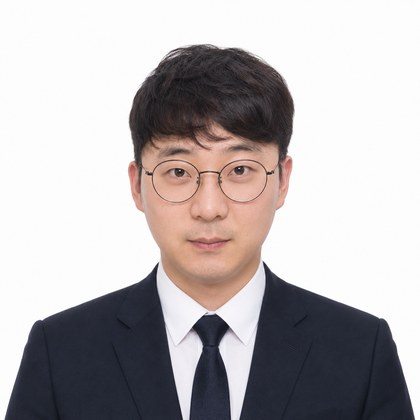
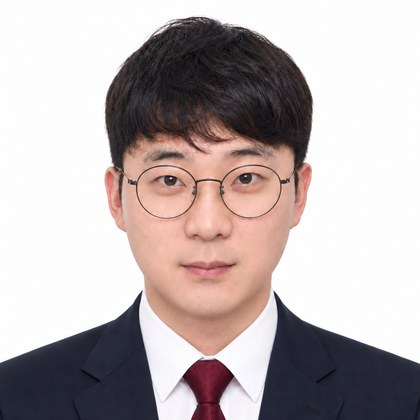
PI photo: switch to red-tie ID photo

diff --git a/index.html b/index.html
@@ -388,7 +388,7 @@
   © 2026 MatSOLVE, Korea Institute of Ceramic Engineering &amp; Technology<br>
 </footer>
 
-<script id="imgdata" type="application/json">{"logo": "assets/img/logo.png", "concept": "assets/img/concept.jpg", "scope": "assets/img/scope.jpg?v=20261005", "pillars": "assets/img/pillars.jpg", "qr": "assets/img/qr.jpg", "pi": "assets/img/pi.jpg", "m_bincy": "assets/img/m_bincy.jpg", "m_ganji": "assets/img/m_ganji.jpg", "m_prabha": "assets/img/m_prabha.jpg", "m_ksw": "assets/img/m_ksw.jpg", "m_kjb": "assets/img/m_kjb.jpg", "m_khn": "assets/img/m_khn.jpg", "m_cde": "assets/img/m_cde.jpg", "m_smt": "assets/img/m_smt.jpg", "m_shj": "assets/img/m_shj.jpg", "m_ldg": "assets/img/m_ldg.jpg", "m_lsh": "assets/img/m_lsh.jpg", "m_jsw": "assets/img/m_jsw.jpg", "sw_ansys": "assets/img/sw_ansys.png", "sw_fluent": "assets/img/sw_fluent.png", "sw_comsol": "assets/img/sw_comsol.png", "sw_digimat": "assets/img/sw_digimat.png", "sw_geodict": "assets/img/sw_geodict.png", "sw_hepigans": "assets/img/sw_hepigans.png", "sw_msstudio": "assets/img/sw_msstudio.png", "sw_piano": "assets/img/sw_piano.png", "sw_vasp": "assets/img/sw_vasp.png", "n_grad": "assets/img/n_grad.jpg", "n_cover": "assets/img/n_cover.jpg", "n_plat": "assets/img/n_plat.jpg?v=20260905", "n_award": "assets/img/n_award.jpg", "n_geo": "assets/img/n_geo.jpg", "n_qd": "assets/img/n_qd.jpg", "n_marine": "assets/img/n_marine.jpg", "n_hydro": "assets/img/pub/20.jpg", "n_amds": "assets/img/n_amds.jpg", "n_mico": "assets/img/n_mico.jpg", "n_halide": "assets/img/n_halide.jpg?v=20260905", "n_tribo": "assets/img/pub/13.jpg", "m_kgw": "assets/img/m_kgw.jpg", "m_gf": "assets/img/m_gf.jpg", "m_uk": "assets/img/m_uk.jpg"}</script>
+<script id="imgdata" type="application/json">{"logo": "assets/img/logo.png", "concept": "assets/img/concept.jpg", "scope": "assets/img/scope.jpg?v=20261005", "pillars": "assets/img/pillars.jpg", "qr": "assets/img/qr.jpg", "pi": "assets/img/pi.jpg?v=20261010", "m_bincy": "assets/img/m_bincy.jpg", "m_ganji": "assets/img/m_ganji.jpg", "m_prabha": "assets/img/m_prabha.jpg", "m_ksw": "assets/img/m_ksw.jpg", "m_kjb": "assets/img/m_kjb.jpg", "m_khn": "assets/img/m_khn.jpg", "m_cde": "assets/img/m_cde.jpg", "m_smt": "assets/img/m_smt.jpg", "m_shj": "assets/img/m_shj.jpg", "m_ldg": "assets/img/m_ldg.jpg", "m_lsh": "assets/img/m_lsh.jpg", "m_jsw": "assets/img/m_jsw.jpg", "sw_ansys": "assets/img/sw_ansys.png", "sw_fluent": "assets/img/sw_fluent.png", "sw_comsol": "assets/img/sw_comsol.png", "sw_digimat": "assets/img/sw_digimat.png", "sw_geodict": "assets/img/sw_geodict.png", "sw_hepigans": "assets/img/sw_hepigans.png", "sw_msstudio": "assets/img/sw_msstudio.png", "sw_piano": "assets/img/sw_piano.png", "sw_vasp": "assets/img/sw_vasp.png", "n_grad": "assets/img/n_grad.jpg", "n_cover": "assets/img/n_cover.jpg", "n_plat": "assets/img/n_plat.jpg?v=20260905", "n_award": "assets/img/n_award.jpg", "n_geo": "assets/img/n_geo.jpg", "n_qd": "assets/img/n_qd.jpg", "n_marine": "assets/img/n_marine.jpg", "n_hydro": "assets/img/pub/20.jpg", "n_amds": "assets/img/n_amds.jpg", "n_mico": "assets/img/n_mico.jpg", "n_halide": "assets/img/n_halide.jpg?v=20260905", "n_tribo": "assets/img/pub/13.jpg", "m_kgw": "assets/img/m_kgw.jpg", "m_gf": "assets/img/m_gf.jpg", "m_uk": "assets/img/m_uk.jpg"}</script>
 <script id="galdata" type="application/json">[{"id": "e2609b", "date": "2026.09.30–10.02", "title": "Korean Ceramic Society", "note": "추계학술대회", "cover": "assets/img/gallery/e2609b-cover.jpg", "shots": ["assets/img/gallery/e2609b-01.jpg", "assets/img/gallery/e2609b-02.jpg"]}, {"id": "e2609", "date": "2026.09.08", "title": "Welcome, Daeun!", "note": "최다은 연구원 환영회", "cover": "assets/img/gallery/e2609-cover.jpg", "shots": ["assets/img/gallery/e2609-01.jpg"]}, {"id": "e2606", "date": "2026.06.21–24", "title": "CIMTEC 2026 · 10th Forum on New Materials", "note": "Perugia, Italy", "cover": "assets/img/gallery/e2606-cover.jpg", "shots": ["assets/img/gallery/e2606-01.jpg", "assets/img/gallery/e2606-02.jpg", "assets/img/gallery/e2606-04.jpg", "assets/img/gallery/e2606-03.jpg"]}, {"id": "e2605b", "date": "2026.05.15", "title": "Teachers' Day", "note": "스승의 날", "cover": "assets/img/gallery/e2605b-cover.jpg", "shots": ["assets/img/gallery/e2605b-02.jpg"]}, {"id": "e2605a", "date": "2026.05.08", "title": "Homecoming", "note": "졸업생 방문", "cover": "assets/img/gallery/e2605a-cover.jpg", "shots": ["assets/img/gallery/e2605a-14.jpg"]}, {"id": "e2604", "date": "2026.04.08–10", "title": "Korean Ceramic Society", "note": "춘계학술대회", "cover": "assets/img/gallery/e2604-cover.jpg", "shots": ["assets/img/gallery/e2604-08.jpg", "assets/img/gallery/e2604-01.jpg", "assets/img/gallery/e2604-06.jpg"]}, {"id": "e2601", "date": "2026.01.09", "title": "Birthday", "note": "", "cover": "assets/img/gallery/e2601-cover.jpg", "shots": ["assets/img/gallery/e2601-01.jpg"]}, {"id": "e2511", "date": "2025.11.19–22", "title": "39th Korea–Japan Seminar on Ceramics", "note": "Oriental Hotel, Jeju", "cover": "assets/img/gallery/e2511-cover.jpg", "shots": ["assets/img/gallery/e2511-01.jpg", "assets/img/gallery/e2511-02.jpg", "assets/img/gallery/e2511-04.jpg"]}, {"id": "e2506", "date": "2025.06.02", "title": "Congrats, Donggeon!", "note": "이동건 취업 축하 파티", "cover": "assets/img/gallery/e2506-cover.jpg", "shots": ["assets/img/gallery/e2506-01.jpg"]}, {"id": "e2505", "date": "2025.05.15", "title": "Teachers' Day", "note": "스승의 날", "cover": "assets/img/gallery/e2505-cover.jpg", "shots": ["assets/img/gallery/e2505-03.jpg", "assets/img/gallery/e2505-05.jpg"]}, {"id": "e2503", "date": "2025.03.13", "title": "Group meeting", "note": "", "cover": "assets/img/gallery/e2503-cover.jpg", "shots": ["assets/img/gallery/e2503-01.jpg"]}, {"id": "e2502b", "date": "2025.02.27", "title": "Welcome Dr. Karan", "note": "환영회", "cover": "assets/img/gallery/e2502b-cover.jpg", "shots": ["assets/img/gallery/e2502b-01.jpg", "assets/img/gallery/e2502b-02.jpg"]}, {"id": "e2502a", "date": "2025.02.05–07", "title": "Nature Conference: Materials for AI", "note": "KAIST", "cover": "assets/img/gallery/e2502a-cover.jpg", "shots": ["assets/img/gallery/e2502a-01.jpg"]}, {"id": "e2501", "date": "2025.01.10", "title": "Birthday", "note": "", "cover": "assets/img/gallery/e2501-cover.jpg", "shots": ["assets/img/gallery/e2501-01.jpg"]}, {"id": "e2410", "date": "2024.10.16–18", "title": "Korean Ceramic Society", "note": "추계학술대회", "cover": "assets/img/gallery/e2410-cover.jpg", "shots": ["assets/img/gallery/e2410-04.jpg", "assets/img/gallery/e2410-01.jpg", "assets/img/gallery/e2410-02.jpg"]}, {"id": "e2409", "date": "2024.09.22–27", "title": "Multiscale Materials Modeling (MMM11)", "note": "", "cover": "assets/img/gallery/e2409-cover.jpg", "shots": ["assets/img/gallery/e2409-01.jpg", "assets/img/gallery/e2409-02.jpg", "assets/img/gallery/e2409-09.jpg", "assets/img/gallery/e2409-03.jpg", "assets/img/gallery/e2409-04.jpg", "assets/img/gallery/e2409-05.jpg", "assets/img/gallery/e2409-06.jpg"]}, {"id": "e2403", "date": "2024.03.15–16", "title": "Membership Training", "note": "Geoje", "cover": "assets/img/gallery/e2403-cover.jpg", "shots": ["assets/img/gallery/emt-01.jpg"]}, {"id": "e2305", "date": "2023.05.19–20", "title": "Membership Training", "note": "Changwon", "cover": "assets/img/gallery/e2305-cover.jpg", "shots": ["assets/img/gallery/emt-06.jpg", "assets/img/gallery/emt-02.jpg"]}]</script>
 <script id="pubdata" type="application/json">[{"id": 61, "date": "2026-08-25", "year": 2026, "title": "Effect of fumed silica content on the microstructural evolution and mechanical properties of metakaolin-based basalt fiber-reinforced geopolymer matrix composites", "venue": "Advanced Composite Materials", "jif": null, "q": null, "cites": 0, "role": "co-corresponding", "pos": [5, 5], "doi": "https://doi.org/10.1080/09243046.2026.2721819", "authors": [{"n": "Sanghun Lee", "lab": true, "m": "†"}, {"n": "Shinwoo Kang", "lab": true, "m": "†"}, {"n": "Hyung Mi Lim", "lab": false, "m": ""}, {"n": "Seog-Young Yoon", "lab": false, "m": "*"}, {"n": "Hyunseok Ko", "lab": true, "m": "*"}], "fig": 1}, {"id": 60, "date": "2026-07-13", "year": 2026, "title": "Composition and Processing Descriptors Govern Electroceramic Property Prediction: A Multi-Modal Interpretable Framework for BaTiO3-Based Ceramics", "venue": "Journal of Materiomics", "jif": 10.6, "q": "Q1", "cites": 0, "role": "co-corresponding", "pos": [6, 7], "doi": "https://doi.org/10.1016/j.jmat.2026.101282", "authors": [{"n": "Saman khalid", "lab": false, "m": "†"}, {"n": "Muhammad Faseeh", "lab": false, "m": "†"}, {"n": "Murad Ali Khan", "lab": false, "m": ""}, {"n": "Hyejeong Song", "lab": true, "m": ""}, {"n": "Syed Shehryar Ali Naqvi", "lab": false, "m": ""}, {"n": "Hyunseok Ko", "lab": true, "m": "*"}, {"n": "Do-Hyeun Kim", "lab": false, "m": "*"}]}, {"id": 59, "date": "2026-06-16", "year": 2026, "title": "Multi-model machine learning framework for predicting material properties of BaTiO3-based ferroelectric ceramics", "venue": "Materials & Design", "jif": 8.2, "q": "Q1", "cites": 0, "role": "co-corresponding", "pos": [6, 7], "doi": "https://doi.org/10.1016/j.matdes.2026.116418", "authors": [{"n": "Saman Khalid", "lab": false, "m": "†"}, {"n": "Muhammad Faseeh", "lab": false, "m": ""}, {"n": "Hyejeong Song", "lab": true, "m": ""}, {"n": "Murad Ali Khan", "lab": false, "m": ""}, {"n": "Syed Shehryar Ali Naqvi", "lab": false, "m": ""}, {"n": "Hyunseok Ko", "lab": true, "m": "*"}, {"n": "Do-Hyeon Kim", "lab": false, "m": "*"}], "fig": 1}, {"id": 58, "date": "2026-06-03", "year": 2026, "title": "Reinforced surface reactivity via incorporation of metal catalyst onto perovskite oxide for CO2 reduction", "venue": "Materials Today Energy", "jif": 8.1, "q": "Q1", "cites": 0, "role": "co-corresponding", "pos": [9, 10], "doi": "https://doi.org/10.1016/j.mtener.2026.102327", "authors": [{"n": "Sang Won Lee", "lab": false, "m": "†"}, {"n": "Sampath Prabhakaran", "lab": true, "m": "†"}, {"n": "Tae Heon Nam", "lab": false, "m": ""}, {"n": "Geunwoo Kim", "lab": true, "m": ""}, {"n": "Jae Hoon Lim", "lab": false, "m": ""}, {"n": "Hyejeong Song", "lab": true, "m": ""}, {"n": "Sungtae Park", "lab": false, "m": ""}, {"n": "Jong Hyeok Park", "lab": false, "m": "*"}, {"n": "Hyunseok Ko", "lab": true, "m": "*"}, {"n": "Tae Ho Shin", "lab": false, "m": "*"}], "fig": 1}, {"id": 57, "date": "2026-06-01", "year": 2026, "title": "High Polarity Doping of CoFe Layered Hydroxides: Bifunctional and Corrosion-Resistant Anion Exchange Membrane Seawater Electrolyzers", "venue": "Nano-Micro Letters", "jif": 38.5, "q": "Q1", "cites": 2, "role": "co-author", "pos": [6, 11], "doi": "https://doi.org/10.1007/s40820-026-02230-8", "authors": [{"n": "Anandhan Ayyappan Saj", "lab": false, "m": "†"}, {"n": "Sampath Prabhakaran", "lab": true, "m": "†"}, {"n": "Moshin Rasool", "lab": false, "m": ""}, {"n": "Kousik Bhunia", "lab": false, "m": ""}, {"n": "Dongho Lee", "lab": false, "m": ""}, {"n": "Hyunseok Ko", "lab": true, "m": ""}, {"n": "Tukaram D. Dongale", "lab": false, "m": ""}, {"n": "Muthukumar Perumalsamy", "lab": false, "m": ""}, {"n": "Arul Saravanan Raaju Sundhar", "lab": false, "m": ""}, {"n": "Do Hwan Kim", "lab": false, "m": "*"}, {"n": "Sang Jae Kim", "lab": false, "m": "*"}], "fig": 1}, {"id": 56, "date": "2026-05-01", "year": 2026, "title": "Low temperature/low-pressure fabrication of oxide/oxide ceramic matrix composites with excellent mechanical properties and stealth capabilities", "venue": "Advanced Composites and Hybrid Materials", "jif": 15.5, "q": "Q1", "cites": 0, "role": "co-author", "pos": [3, 7], "doi": "https://doi.org/10.1007/s42114-026-01816-5", "authors": [{"n": "Shanigaram Mallesh", "lab": false, "m": "†"}, {"n": "Dong-Jun Hong", "lab": false, "m": ""}, {"n": "Hyunseok Ko", "lab": true, "m": ""}, {"n": "Sanghun Lee", "lab": true, "m": ""}, {"n": "Chae-Hwan Lim", "lab": false, "m": ""}, {"n": "Won-Ho Choi", "lab": false, "m": ""}, {"n": "Young-Woo Nam", "lab": false, "m": "*"}], "fig": 1}, {"id": 55, "date": "2026-04-06", "year": 2026, "title": "Mechanistic insights into vacancy-driven activation and dissociation of hydrogen peroxide on Ti3C2O2 MXene in water", "venue": "Nanoscale Advances", "jif": 6.3, "q": "Q2", "cites": 0, "role": "corresponding", "pos": [2, 2], "doi": "https://doi.org/10.1039/d5na00962f", "authors": [{"n": "Masoud Darvish Ganji", "lab": true, "m": "†"}, {"n": "Hyunseok Ko", "lab": true, "m": "*"}], "fig": 1, "sel": 1}, {"id": 54, "date": "2026-04-06", "year": 2026, "title": "Bridging the theoretical gap between electronic structure and dynamic stability: An integrated computational framework for ZnO sheet-based chemical warfare agent sensors", "venue": "Surfaces and Interfaces", "jif": 6.0, "q": "Q2", "cites": 5, "role": "co-corresponding", "pos": [3, 3], "doi": "https://doi.org/10.1016/j.surfin.2026.109196", "authors": [{"n": "Masoud Darvish Ganji", "lab": true, "m": "†"}, {"n": "Mahyar Rezvani", "lab": false, "m": ""}, {"n": "Hyunseok Ko", "lab": true, "m": "*"}], "fig": 1}, {"id": 53, "date": "2026-03-31", "year": 2026, "title": "Numerical analysis and optimization of horizontal MOCVD reactor design parameters for uniform GaN thin films", "venue": "Journal of the Korean Ceramic Society", "jif": 4.4, "q": "Q1", "cites": 0, "role": "co-corresponding", "pos": [3, 3], "doi": "https://doi.org/10.1007/s43207-026-00602-9", "authors": [{"n": "Haneul Kim", "lab": true, "m": "†"}, {"n": "Roy Byung Kyu Chung", "lab": false, "m": ""}, {"n": "Hyunseok Ko", "lab": true, "m": "*"}], "fig": 1}, {"id": 52, "date": "2026-03-24", "year": 2026, "title": "Processing-structure-property prediction in polycrystalline BaTiO3 ceramics using experimental and computational data fusion", "venue": "Materials Today Communications", "jif": 4.9, "q": "Q2", "cites": 1, "role": "co-corresponding", "pos": [6, 7], "doi": "https://doi.org/10.1016/j.mtcomm.2026.115004", "authors": [{"n": "Muhammad Faseeh", "lab": false, "m": "†"}, {"n": "Hyejeong Song", "lab": true, "m": ""}, {"n": "Murad Ali Khan", "lab": false, "m": ""}, {"n": "Syed Shehryar Ali Naqvi", "lab": false, "m": ""}, {"n": "Saman Khalid", "lab": false, "m": ""}, {"n": "Hyunseok Ko", "lab": true, "m": "*"}, {"n": "Do-Hyeun Kim", "lab": false, "m": "*"}], "fig": 1}, {"id": 51, "date": "2026-02-24", "year": 2026, "title": "Hierarchically structured Cu-Fe-S nanomaterials as dual-functional catalysts for enhanced hydrogen evolution and photocatalytic dye degradation", "venue": "Journal of Alloys and Compounds", "jif": 6.7, "q": "Q2", "cites": 0, "role": "co-corresponding", "pos": [7, 8], "doi": "https://doi.org/10.1016/j.jallcom.2026.187031", "authors": [{"n": "C.K. Sushma", "lab": false, "m": "†"}, {"n": "Hyeon Woo Kim", "lab": false, "m": ""}, {"n": "Maheshkumar V", "lab": false, "m": ""}, {"n": "Anju Sebastian", "lab": false, "m": ""}, {"n": "Masoud Darvish Ganji", "lab": true, "m": ""}, {"n": "Sung Beom Cho", "lab": false, "m": ""}, {"n": "Hyunseok Ko", "lab": true, "m": "*"}, {"n": "Vidhya Bhojan", "lab": false, "m": "*"}], "fig": 1}, {"id": 50, "date": "2026-02-01", "year": 2026, "title": "First-Principles Models of Triboelectrification", "venue": "Small Methods", "jif": 8.7, "q": "Q1", "cites": 0, "role": "co-author", "pos": [3, 6], "doi": "https://doi.org/10.1002/smtd.202501782", "authors": [{"n": "Giulio Fatti", "lab": true, "m": "†"}, {"n": "John Cavin", "lab": false, "m": ""}, {"n": "Hyunseok Ko", "lab": true, "m": ""}, {"n": "Rohan Mishra", "lab": false, "m": ""}, {"n": "Daniele Dini", "lab": false, "m": ""}, {"n": "Sung Beom Cho", "lab": false, "m": ""}], "fig": 1}, {"id": 49, "date": "2025-12-11", "year": 2025, "title": "Toward efficient dielectric material discovery: a comparative evaluation of Transformer and AutoML-based inverse learning", "venue": "Journal of Asian Ceramic Societies", "jif": 1.8, "q": "Q3", "cites": 1, "role": "co-corresponding", "pos": [5, 6], "doi": "https://doi.org/10.1080/21870764.2025.2570561", "authors": [{"n": "Murad Ali Khan", "lab": false, "m": "†"}, {"n": "Hyejeong Song", "lab": true, "m": ""}, {"n": "Syed Shehryar Ali Naqvi", "lab": false, "m": ""}, {"n": "Muhammad Faseeh", "lab": false, "m": ""}, {"n": "Hyunseok Ko", "lab": true, "m": "*"}, {"n": "Do-Hyeun Kim", "lab": false, "m": "*"}], "fig": 1}, {"id": 48, "date": "2025-11-15", "year": 2025, "title": "Boosting the efficiency and stability of cerium-doped trimetallic phosphides for overall water splitting", "venue": "Chemical Engineering Journal", "jif": 12.5, "q": "Q1", "cites": 5, "role": "co-author", "pos": [5, 8], "doi": "https://doi.org/10.1016/j.cej.2025.169404", "authors": [{"n": "Mai Mai", "lab": false, "m": "†"}, {"n": "Sampath Prabhakaran", "lab": true, "m": ""}, {"n": "Huyen Thi Dao", "lab": false, "m": ""}, {"n": "Lan Nguyen", "lab": false, "m": ""}, {"n": "Hyunseok Ko", "lab": true, "m": ""}, {"n": "Young Sun Mok", "lab": false, "m": ""}, {"n": "Van Hien Hoa", "lab": false, "m": "*"}, {"n": "Do Hwan Kim", "lab": false, "m": "*"}], "fig": 1}, {"id": 47, "date": "2025-10-30", "year": 2025, "title": "Engineering multifunctionality in gallium oxide: unveiling novel structural, electronic, and opto-mechanical attributes of gadolinium-doped β-Ga2O3 through advanced first-principles design", "venue": "RSC Advances", "jif": 6.1, "q": "Q2", "cites": 4, "role": "corresponding", "pos": [2, 2], "doi": "https://doi.org/10.1039/d5ra05763a", "authors": [{"n": "Masoud Darvish Ganji", "lab": true, "m": "†"}, {"n": "Hyunseok Ko", "lab": true, "m": "*"}], "fig": 1}, {"id": 46, "date": "2025-09-09", "year": 2025, "title": "Rational material design of chemically inert oxide anode coating layers for lithium metal and all-solid-state batteries", "venue": "Applied Surface Science Advances", "jif": 10.0, "q": "Q1", "cites": 0, "role": "co-author", "pos": [6, 10], "doi": "https://doi.org/10.1016/j.apsadv.2025.100842", "authors": [{"n": "Dong Won Jeon", "lab": false, "m": "†"}, {"n": "Wootaek Choi", "lab": false, "m": ""}, {"n": "Jun Hyuk Kang", "lab": false, "m": ""}, {"n": "Hyeon Woo Kim", "lab": false, "m": ""}, {"n": "Min Sung Kang", "lab": false, "m": ""}, {"n": "Woongchan Kim", "lab": false, "m": ""}, {"n": "Han Uk Lee", "lab": false, "m": ""}, {"n": "Hyunseok Ko", "lab": true, "m": ""}, {"n": "Patrick Joohyun Kim", "lab": false, "m": "*"}, {"n": "Sung Beom Cho", "lab": false, "m": "*"}], "fig": 1}, {"id": 45, "date": "2025-06-30", "year": 2025, "title": "초저궤도 우주환경에서 자기 강화 원자산소 저항 산화층이 형성된 산화물/산화물 세라믹 복합재 구조의 손상 거동 평가", "venue": "복합재료 (Composites Research), 한국복합재료학회", "jif": null, "q": null, "cites": 0, "role": "co-author", "pos": [6, 8], "doi": "https://doi.org/10.7234/composres.2025.38.3.333", "authors": [{"n": "Chae-Hwan Lim", "lab": false, "m": "†"}, {"n": "Dong-Jun Hong", "lab": false, "m": ""}, {"n": "Hanna Jang", "lab": false, "m": ""}, {"n": "Seung-Hyeon Kang", "lab": false, "m": ""}, {"n": "Sang-Hoon Lee", "lab": true, "m": ""}, {"n": "Hyunseok Ko", "lab": true, "m": ""}, {"n": "Won-Ho Choi", "lab": false, "m": ""}, {"n": "Young-Woo Nam", "lab": false, "m": ""}], "fig": 1}, {"id": 44, "date": "2025-04-30", "year": 2025, "title": "First-principles investigation of Mo-doped β-Ga2O3: Prospects for visible light technologies and spintronics", "venue": "Physica B: Condensed Matter", "jif": 3.2, "q": "Q2", "cites": 8, "role": "corresponding", "pos": [5, 5], "doi": "https://doi.org/10.1016/j.physb.2025.417334", "authors": [{"n": "Masoud Darvish Ganji", "lab": true, "m": "†"}, {"n": "Hyejeong Song", "lab": true, "m": ""}, {"n": "Ji-Hyeon Park", "lab": false, "m": ""}, {"n": "Dae-Woo Jeon", "lab": false, "m": ""}, {"n": "Hyunseok Ko", "lab": true, "m": "*"}], "fig": 1}, {"id": 43, "date": "2025-01-27", "year": 2025, "title": "Accentuating the ambient curing behavior of geopolymers: metamodel-guided optimization for fast-curing geopolymers with high flexural strength", "venue": "Digital Discovery", "jif": 7.1, "q": "Q1", "cites": 4, "role": "corresponding", "pos": [5, 6], "doi": "https://doi.org/10.1039/d4dd00217b", "authors": [{"n": "Kyungwon Kim", "lab": true, "m": "†"}, {"n": "Hyejeong Song", "lab": true, "m": "†"}, {"n": "Sanghun Lee", "lab": true, "m": ""}, {"n": "Hyung-Kyu Cho", "lab": false, "m": ""}, {"n": "Hyung-Mi Lim", "lab": false, "m": ""}, {"n": "Hyunseok Ko", "lab": true, "m": "*"}], "fig": 1}, {"id": 42, "date": "2025-01-14", "year": 2025, "title": "First-Principle Insights into Positive Triboelectrification of Polyoxymethylene Through Homolytic Bond Rupture", "venue": "Nanoenergy Advances", "jif": 4.2, "q": "Q3", "cites": 2, "role": "co-author", "pos": [2, 3], "doi": "https://doi.org/10.3390/nanoenergyadv5010001", "authors": [{"n": "Giulio Fatti", "lab": true, "m": "†*"}, {"n": "Hyunseok Ko", "lab": true, "m": ""}, {"n": "Sung Beom Cho", "lab": false, "m": ""}], "fig": 1}, {"id": 41, "date": "2024-12-18", "year": 2024, "title": "Ultrahigh-gain colloidal quantum dot infrared avalanche photodetectors", "venue": "Nature Nanotechnology", "jif": 37.5, "q": "Q1", "cites": 47, "role": "first", "pos": [3, 9], "doi": "https://doi.org/10.1038/s41565-024-01831-x", "authors": [{"n": "Byeongsu Kim", "lab": false, "m": "†"}, {"n": "Sang Yeon Lee", "lab": false, "m": "†"}, {"n": "Hyunseok Ko", "lab": true, "m": "†"}, {"n": "Jihyung Lee", "lab": false, "m": ""}, {"n": "Hyejeong Song", "lab": true, "m": ""}, {"n": "Sungjun Cho", "lab": false, "m": ""}, {"n": "Min-Ho Lee", "lab": false, "m": ""}, {"n": "Jung-Yong Lee", "lab": false, "m": ""}], "fig": 1, "sel": 1}, {"id": 40, "date": "2024-12-04", "year": 2024, "title": "Unveiling the Aluminum Doping Effects of In-Situ Transmogrified Dual-LDH Heterostructure and Its Fermi-Level Alignment to Water Splitting Potentials", "venue": "Advanced Energy Materials", "jif": 25.5, "q": "Q1", "cites": 39, "role": "co-author", "pos": [10, 11], "doi": "https://doi.org/10.1002/aenm.202403889", "authors": [{"n": "Nandapriya Manivelan", "lab": false, "m": "†"}, {"n": "Junji Piao", "lab": false, "m": ""}, {"n": "Jaekook Kim", "lab": false, "m": ""}, {"n": "Seunghwa Lee", "lab": false, "m": ""}, {"n": "Youngji Kim", "lab": false, "m": ""}, {"n": "Vaiyapuri Soundharrajan", "lab": false, "m": ""}, {"n": "Min-Kyu Son", "lab": false, "m": ""}, {"n": "Amir Humayun", "lab": false, "m": ""}, {"n": "Masoud Darvish Ganji", "lab": true, "m": ""}, {"n": "Hyunseok Ko", "lab": true, "m": ""}, {"n": "Kandasamy Prabakar", "lab": false, "m": ""}], "fig": 1}, {"id": 39, "date": "2024-10-17", "year": 2024, "title": "Machine learning-enhanced design of lead-free halide perovskite materials using density functional theory", "venue": "Current Applied Physics", "jif": 2.8, "q": "Q3", "cites": 7, "role": "co-corresponding", "pos": null, "doi": "https://doi.org/10.1016/j.cap.2024.10.012", "authors": [{"n": "Upendra Kumar", "lab": true, "m": "†"}, {"n": "Hyeon Woo Kim", "lab": false, "m": "†"}, {"n": "Gyanendra Kumar Maurya", "lab": false, "m": ""}, {"n": "Bincy Babu Raj", "lab": true, "m": ""}, {"n": "Sobhit Singh", "lab": false, "m": ""}, {"n": "Ajay Kumar Kushwaha", "lab": false, "m": ""}, {"n": "Sung Beom Cho", "lab": false, "m": "*"}, {"n": "Hyunseok Ko", "lab": true, "m": "*"}], "fig": 1}, {"id": 38, "date": "2024-09-30", "year": 2024, "title": "Suppressing Hole Accumulation Through Sub-Nanometer Dipole Interfaces in Hybrid Perovskite/Organic Solar Cells for Boosting Near-Infrared Photon Harvesting", "venue": "Advanced Materials", "jif": 29.1, "q": "Q1", "cites": 22, "role": "co-author", "pos": [9, 13], "doi": "https://doi.org/10.1002/adma.202411015", "authors": [{"n": "Min-Ho Lee", "lab": false, "m": "†"}, {"n": "Min Seok Kim", "lab": false, "m": ""}, {"n": "Yu Jin Lee", "lab": false, "m": ""}, {"n": "Byeongsu Kim", "lab": false, "m": ""}, {"n": "Ju-Hyeon Kim", "lab": false, "m": ""}, {"n": "Chungryeol Lee", "lab": false, "m": ""}, {"n": "Jihyung Lee", "lab": false, "m": ""}, {"n": "Dong-Jun Kim", "lab": false, "m": ""}, {"n": "Hyunseok Ko", "lab": true, "m": ""}, {"n": "Masoud Darvish Ganji", "lab": true, "m": ""}, {"n": "Kwanghee Lee", "lab": false, "m": ""}, {"n": "Woojae Kim", "lab": false, "m": ""}, {"n": "Jung-Yong Lee", "lab": false, "m": ""}], "fig": 1}, {"id": 37, "date": "2024-08-29", "year": 2024, "title": "Overcoming the limitations of atomic-scale simulations on semiconductor catalysis with changing Fermi level and surface treatment", "venue": "Journal of Materials Chemistry A", "jif": 9.2, "q": "Q1", "cites": 4, "role": "co-corresponding", "pos": [12, 14], "doi": "https://doi.org/10.1039/d4ta03595j", "authors": [{"n": "Seulgi ji", "lab": false, "m": "†"}, {"n": "Dong Won Jeon", "lab": false, "m": ""}, {"n": "Junghyun Choi", "lab": false, "m": ""}, {"n": "Haneol Cho", "lab": false, "m": ""}, {"n": "Bo-In Park", "lab": false, "m": ""}, {"n": "Ilpyo Roh", "lab": false, "m": ""}, {"n": "Hyungil Choi", "lab": false, "m": ""}, {"n": "Chansoo Kim", "lab": false, "m": ""}, {"n": "Jung Kyu Kim", "lab": false, "m": ""}, {"n": "Uk sim", "lab": false, "m": ""}, {"n": "Danlei Li", "lab": false, "m": ""}, {"n": "Hyunseok Ko", "lab": true, "m": "*"}, {"n": "Sung Beom Cho", "lab": false, "m": "*"}, {"n": "Heechae Choi", "lab": false, "m": "*"}], "fig": 1, "sel": 1}, {"id": 36, "date": "2024-07-29", "year": 2024, "title": "Multifaceted investigation into the impact of Ga substitution for Al in V2MnAl inverse Heusler alloys", "venue": "Physica B: Condensed Matter", "jif": 3.2, "q": "Q2", "cites": 3, "role": "co-corresponding", "pos": [4, 5], "doi": "https://doi.org/10.1016/j.physb.2024.416345", "authors": [{"n": "Shashank Shekhar Mishra", "lab": false, "m": "†"}, {"n": "Upendra Kumar", "lab": true, "m": "†"}, {"n": "Bincy Babu Raj", "lab": true, "m": ""}, {"n": "Hyunseok Ko", "lab": true, "m": "*"}, {"n": "Thakur Prasad Yadav", "lab": false, "m": "*"}], "fig": 1}, {"id": 35, "date": "2024-04-29", "year": 2024, "title": "Unravelling performance of honeycomb structures as drug delivery systems for the isoniazid drug using DFT-D3 correction dispersion and molecular dynamic simulations", "venue": "Physical Chemistry Chemical Physics", "jif": 3.0, "q": "Q3", "cites": 50, "role": "co-author", "pos": [2, 8], "doi": "https://doi.org/10.1039/d3cp05457h", "authors": [{"n": "Masoud Darvish Ganji", "lab": true, "m": "†"}, {"n": "Hyunseok Ko", "lab": true, "m": ""}, {"n": "Saeed Jamehbozorgi", "lab": false, "m": ""}, {"n": "Mahmood Tajbakhsh", "lab": false, "m": ""}, {"n": "Sepideh Tanreh", "lab": false, "m": ""}, {"n": "Rosa Pahlavan Nejad", "lab": false, "m": ""}, {"n": "Mahboubeh Sepahvand", "lab": false, "m": ""}, {"n": "Mahyar Rezvani", "lab": false, "m": "*"}], "fig": 1}, {"id": 34, "date": "2024-04-16", "year": 2024, "title": "Morphological diversity in directionally-solidified microstructures with varying anisotropy of solid-liquid interfacial free energy", "venue": "Journal of Materials Research and Technology", "jif": 7.3, "q": "Q1", "cites": 6, "role": "co-corresponding", "pos": [4, 5], "doi": "https://doi.org/10.1016/j.jmrt.2024.04.126", "authors": [{"n": "Geunwoo Kim", "lab": true, "m": "†"}, {"n": "Tomohiro Takaki", "lab": false, "m": ""}, {"n": "Yasushi Shibuta", "lab": false, "m": ""}, {"n": "Hyunseok Ko", "lab": true, "m": "*"}, {"n": "Munekazu Ohno", "lab": false, "m": "*"}], "fig": 1}, {"id": 33, "date": "2024-01-11", "year": 2024, "title": "Designing Pr-based advanced photoluminescent materials using machine learning and density functional theory", "venue": "Journal of Materials Science", "jif": 4.4, "q": "Q2", "cites": 5, "role": "corresponding", "pos": [5, 5], "doi": "https://doi.org/10.1007/s10853-023-09232-6", "authors": [{"n": "Upendra Kumar", "lab": true, "m": "†"}, {"n": "Hyeon Woo Kim", "lab": false, "m": ""}, {"n": "Sobhit Singh", "lab": false, "m": ""}, {"n": "Sung Beom Cho", "lab": false, "m": "*"}, {"n": "Hyunseok Ko", "lab": true, "m": "*"}], "fig": 1}, {"id": 32, "date": "2024-01-09", "year": 2024, "title": "Sequential doping strategy in rutile TiO2 nanorod for high performance photoanode", "venue": "Applied Surface Science", "jif": 6.6, "q": "Q1", "cites": 6, "role": "co-corresponding", "pos": [10, 11], "doi": "https://doi.org/10.1016/j.apsusc.2023.159213", "authors": [{"n": "Sang Yeon Lee", "lab": false, "m": "†"}, {"n": "Young Jae Lee", "lab": false, "m": ""}, {"n": "Il-han Yoo", "lab": false, "m": ""}, {"n": "Hyeon Woo Kim", "lab": false, "m": ""}, {"n": "Hyejeong Song", "lab": true, "m": ""}, {"n": "Soo Won Heo", "lab": false, "m": ""}, {"n": "Shankara S Kalanur", "lab": false, "m": ""}, {"n": "Gourab Mohapatra", "lab": false, "m": ""}, {"n": "Hyunseok Ko", "lab": true, "m": "*"}, {"n": "Hyungtak Seo", "lab": false, "m": "*"}], "fig": 1}, {"id": 31, "date": "2023-12-01", "year": 2023, "title": "Radar absorption characteristics of ceramic oxide fiber/aluminosilicate-sendust composite structure at ultrahigh temperatures", "venue": "Journal of Alloys and Compounds", "jif": 6.7, "q": "Q1", "cites": 24, "role": "co-author", "pos": [3, 7], "doi": "https://doi.org/10.1016/j.jallcom.2023.171979", "authors": [{"n": "Shanigaram Mallesh", "lab": false, "m": "†"}, {"n": "Dongyoung Shim", "lab": false, "m": "†"}, {"n": "Hyunseok Ko", "lab": true, "m": ""}, {"n": "Younghoon Kang", "lab": false, "m": ""}, {"n": "Dongjun Hong", "lab": false, "m": ""}, {"n": "Byeongsu Kwak", "lab": false, "m": ""}, {"n": "Youngwoo Nam", "lab": false, "m": ""}], "fig": 1}, {"id": 30, "date": "2023-11-24", "year": 2023, "title": "Explainable AI for Material Property Prediction Based on Energy Cloud: A Shapley-Driven Approach", "venue": "Materials", "jif": 3.7, "q": "Q2", "cites": 28, "role": "co-author", "pos": [4, 5], "doi": "https://doi.org/10.3390/ma16237322", "authors": [{"n": "Faiza Qayyum", "lab": false, "m": "†"}, {"n": "Murad Ali Khan", "lab": false, "m": ""}, {"n": "Do-Hyeun Kim", "lab": false, "m": "*"}, {"n": "Hyunseok Ko", "lab": true, "m": ""}, {"n": "Ga-Ae Ryu", "lab": false, "m": "*"}], "fig": 1}, {"id": 29, "date": "2023-10-20", "year": 2023, "title": "Uncertainty and Irreproducibility of Triboelectricity Based on Interface Mechanochemistry", "venue": "Physical Review Letters", "jif": 9.4, "q": "Q1", "cites": 21, "role": "co-author", "pos": [9, 11], "doi": "https://doi.org/10.1103/physrevlett.131.166201", "authors": [{"n": "Giulio Fatti", "lab": true, "m": "†"}, {"n": "Hyunseung Kim", "lab": false, "m": ""}, {"n": "Changwan Sohn", "lab": false, "m": ""}, {"n": "Minah Park", "lab": false, "m": ""}, {"n": "Yeong-won Lim", "lab": false, "m": ""}, {"n": "Zhuohan Li", "lab": false, "m": ""}, {"n": "Kwi-Il Park", "lab": false, "m": ""}, {"n": "Izabela Szlufarska", "lab": false, "m": ""}, {"n": "Hyunseok Ko", "lab": true, "m": ""}, {"n": "Chang Kyu Jeong", "lab": false, "m": ""}, {"n": "Sung Beom Cho", "lab": false, "m": ""}], "fig": 1}, {"id": 28, "date": "2023-09-25", "year": 2023, "title": "A versatile strategy for hybridizing small experimental and large simulation data: A case for ceramic tape-casting process", "venue": "Materials & Design", "jif": 8.2, "q": "Q1", "cites": 6, "role": "first", "pos": [2, 8], "doi": "https://doi.org/10.1016/j.matdes.2023.112357", "authors": [{"n": "Jeong-Hun Kim", "lab": false, "m": "†"}, {"n": "Hyunseok Ko", "lab": true, "m": "†"}, {"n": "Dong-Hun Yeo", "lab": false, "m": ""}, {"n": "Zeehoon Park", "lab": false, "m": ""}, {"n": "Upendra Kumar", "lab": true, "m": ""}, {"n": "Kwan-Hee Yoo", "lab": false, "m": ""}, {"n": "Aziz Nasridinov", "lab": false, "m": ""}, {"n": "Sung Beom Cho", "lab": false, "m": ""}], "fig": 1, "sel": 1}, {"id": 27, "date": "2023-09-08", "year": 2023, "title": "Rational Design Strategy for Triboelectric Nanogenerators Based on Electron Back Flow and Ionic Defects: The Case of Polytetrafluoroethylene", "venue": "Advanced Electronic Materials", "jif": 5.9, "q": "Q1", "cites": 15, "role": "co-corresponding", "pos": [3, 11], "doi": "https://doi.org/10.1002/aelm.202300333", "authors": [{"n": "Giulio Fatti", "lab": true, "m": "†*"}, {"n": "Alessandra Ciniero", "lab": false, "m": ""}, {"n": "Hyunseok Ko", "lab": true, "m": "*"}, {"n": "Han Uk Lee", "lab": false, "m": ""}, {"n": "Yujin Na", "lab": false, "m": ""}, {"n": "Chang Kyu Jeong", "lab": false, "m": ""}, {"n": "Sang-geul Lee", "lab": false, "m": ""}, {"n": "Dongyub Kwak", "lab": false, "m": ""}, {"n": "Kwi-Il Park", "lab": false, "m": "*"}, {"n": "Sung Beom Cho", "lab": false, "m": "*"}, {"n": "Daniele Dini", "lab": false, "m": ""}], "fig": 1}, {"id": 26, "date": "2023-09-01", "year": 2023, "title": "Isovalent multi-component doping strategy for stabilizing cubic-Li7La3Zr2O12 with excellent Li mobility", "venue": "Chemical Engineering Journal", "jif": 12.5, "q": "Q1", "cites": 21, "role": "co-author", "pos": [4, 9], "doi": "https://doi.org/10.1016/j.cej.2023.144552", "authors": [{"n": "Han Uk Lee", "lab": false, "m": "†"}, {"n": "SeungminHan", "lab": false, "m": ""}, {"n": "Dong Geon Lee", "lab": true, "m": ""}, {"n": "Hyunseok Ko", "lab": true, "m": ""}, {"n": "Juhyun Lee", "lab": false, "m": ""}, {"n": "Won Bin Im", "lab": false, "m": ""}, {"n": "Taeseup Song", "lab": false, "m": ""}, {"n": "Junghyun Choi", "lab": false, "m": "*"}, {"n": "Sung Beom Cho", "lab": false, "m": "*"}], "fig": 1}, {"id": 25, "date": "2023-08-22", "year": 2023, "title": "Understanding the Electrokinetic Role of Ions on Electricity Generation in Droplet-Based Hydrovoltaic Systems", "venue": "Journal of Physical Chemistry C", "jif": 3.4, "q": "Q3", "cites": 15, "role": "co-author", "pos": [2, 4], "doi": "https://doi.org/10.1021/acs.jpcc.3c03183", "authors": [{"n": "Min Sung Kang", "lab": false, "m": "†"}, {"n": "Hyunseok Ko", "lab": true, "m": ""}, {"n": "Seokhee Lee", "lab": false, "m": "*"}, {"n": "Sung Beom Cho", "lab": false, "m": "*"}], "fig": 1}, {"id": 24, "date": "2023-08-05", "year": 2023, "title": "Dispersion control via crystal-phase modulation of yttrium-doped ZrO2 nanoparticle sol", "venue": "Colloids and Surfaces A: Physicochemical and Engineering Aspects", "jif": 5.4, "q": "Q2", "cites": 10, "role": "first", "pos": [2, 5], "doi": "https://doi.org/10.1016/j.colsurfa.2023.131476", "authors": [{"n": "Hee-Seon Lee", "lab": false, "m": "†"}, {"n": "Hyunseok Ko", "lab": true, "m": "†"}, {"n": "Kyuyoung Heo", "lab": false, "m": ""}, {"n": "Heesoo Lee", "lab": false, "m": ""}, {"n": "Hyung Mi Lim", "lab": false, "m": ""}], "fig": 1}, {"id": 23, "date": "2023-08-02", "year": 2023, "title": "High-Throughput Screening on Halide Perovskite Derivatives and Rational Design of Cs3LuCl6", "venue": "ACS Energy Letters", "jif": 17.5, "q": "Q1", "cites": 27, "role": "first", "pos": [3, 10], "doi": "https://doi.org/10.1021/acsenergylett.3c01207", "authors": [{"n": "Hyeon Woo Kim", "lab": false, "m": "†"}, {"n": "Joo Hyeong Han", "lab": false, "m": "†"}, {"n": "Hyunseok Ko", "lab": true, "m": "†"}, {"n": "Tuhin Samanta", "lab": false, "m": ""}, {"n": "Dong Geon Lee", "lab": true, "m": ""}, {"n": "Dong Won Jeon", "lab": false, "m": ""}, {"n": "Woongchan Kim", "lab": false, "m": ""}, {"n": "Yong-Chae Chung", "lab": false, "m": ""}, {"n": "Won Bin Im", "lab": false, "m": "*"}, {"n": "Sung Beom Cho", "lab": false, "m": "*"}], "fig": 1}, {"id": 22, "date": "2023-05-01", "year": 2023, "title": "Fabrication of thin and lightweight cobalt-coated quartz fiber/aluminosilicate composites for high-temperature microwave absorption", "venue": "Ceramics International", "jif": 6.0, "q": "Q1", "cites": 27, "role": "co-author", "pos": [3, 7], "doi": "https://doi.org/10.1016/j.ceramint.2022.12.235", "authors": [{"n": "Wonwoo Choi", "lab": false, "m": "†"}, {"n": "Shanigaram Mallesh", "lab": false, "m": "†"}, {"n": "Hyunseok Ko", "lab": true, "m": ""}, {"n": "Minjun Kim", "lab": false, "m": ""}, {"n": "Joonhyung Shin", "lab": false, "m": ""}, {"n": "Kyungwon Kim", "lab": true, "m": ""}, {"n": "Youngwoo Nam", "lab": false, "m": ""}], "fig": 1}, {"id": 21, "date": "2023-04-01", "year": 2023, "title": "Modulation of Molybdenum oxidation state via Catalytic-oxidation", "venue": "Applied Surface Science", "jif": 6.6, "q": "Q1", "cites": 14, "role": "co-author", "pos": [3, 8], "doi": "https://doi.org/10.1016/j.apsusc.2023.156330", "authors": [{"n": "Kangchun Lee", "lab": false, "m": "†"}, {"n": "Seho Sun", "lab": false, "m": ""}, {"n": "Hyunseok Ko", "lab": true, "m": ""}, {"n": "Sung Beom Cho", "lab": false, "m": ""}, {"n": "Ganggyu Lee", "lab": false, "m": ""}, {"n": "Dongsoo Lee", "lab": false, "m": ""}, {"n": "Taeseup Song", "lab": false, "m": ""}, {"n": "Ungyu Paik", "lab": false, "m": ""}], "fig": 1}, {"id": 20, "date": "2022-12-23", "year": 2022, "title": "Why does water in porous carbon generate electricity? Electrokinetic role of protons in a water droplet-induced hydrovoltaic system of hydrophilic porous carbon", "venue": "Journal of Materials Chemistry A", "jif": 9.2, "q": "Q1", "cites": 33, "role": "first", "pos": [1, 8], "doi": "https://doi.org/10.1039/d2ta05281d", "authors": [{"n": "Hyunseok Ko", "lab": true, "m": "†"}, {"n": "Wonkyeong Son", "lab": false, "m": ""}, {"n": "Min Sung Kang", "lab": false, "m": ""}, {"n": "Han Uk Lee", "lab": false, "m": ""}, {"n": "Chan-Yeup Chung", "lab": false, "m": ""}, {"n": "Seungwu Han", "lab": false, "m": ""}, {"n": "Changsoon Choi", "lab": false, "m": ""}, {"n": "Sung Beom Cho", "lab": false, "m": "*"}], "fig": 1, "sel": 1}, {"id": 19, "date": "2022-09-30", "year": 2022, "title": "Establishment of a BaTiO3-based Computational Science Platform to Predict Multi-component Properties", "venue": "JOURNAL OF SENSOR SCIENCE AND TECHNOLOGY", "jif": null, "q": null, "cites": null, "role": "co-corresponding", "pos": [4, 5], "doi": "https://doi.org/10.46670/jsst.2022.31.5.318", "authors": [{"n": "Dong Geon Lee", "lab": true, "m": "†"}, {"n": "Han Uk  Lee", "lab": false, "m": ""}, {"n": "Won Bin Im", "lab": false, "m": ""}, {"n": "Hyunseok Ko", "lab": true, "m": "*"}, {"n": "Sung Beom Cho", "lab": false, "m": "*"}], "fig": 1}, {"id": 18, "date": "2022-06-28", "year": 2022, "title": "Fast-curing geopolymer foams with an enhanced pore homogeneity derived by hydrogen peroxide and sodium dodecyl sulfate surfactant", "venue": "Minerals", "jif": null, "q": null, "cites": 21, "role": "corresponding", "pos": [4, 4], "doi": "https://doi.org/10.3390/min12070821", "authors": [{"n": "Kyungwon Kim", "lab": true, "m": "†"}, {"n": "Hyung Mi Lim", "lab": false, "m": ""}, {"n": "Seog-Young Yoon", "lab": false, "m": ""}, {"n": "Hyunseok Ko", "lab": true, "m": "*"}], "fig": 1}, {"id": 17, "date": "2022-05-24", "year": 2022, "title": "Dominant Effects of Epitaxial Strain on the Phase Control of Heterostructural (In x Ga1-x) 2O3 Alloys", "venue": "ACS Applied Electronic Materials", "jif": null, "q": null, "cites": 4, "role": "co-author", "pos": [4, 5], "doi": "https://doi.org/10.1021/acsaelm.2c00240", "authors": [{"n": "Han Uk Lee", "lab": false, "m": "†"}, {"n": "Hyeon Woo Kim", "lab": false, "m": ""}, {"n": "Giulio Fatti", "lab": true, "m": ""}, {"n": "Hyunseok Ko", "lab": true, "m": ""}, {"n": "Sung Beom Cho", "lab": false, "m": "*"}], "fig": 1}, {"id": 16, "date": "2020-09-01", "year": 2020, "title": "High-temperature viscosity analysis of aluminosilicate melts and the comparison to empirical models", "venue": "Journal of the Korean Ceramic Society", "jif": null, "q": null, "cites": 5, "role": "first", "pos": [1, 4], "doi": "https://doi.org/10.1007/s43207-020-00078-1", "authors": [{"n": "Hyunseok Ko", "lab": true, "m": "†"}, {"n": "Myounguk Kim", "lab": false, "m": ""}, {"n": "Sun-Min Park", "lab": false, "m": ""}, {"n": "Hyung Mi Lim", "lab": false, "m": ""}], "fig": 1}, {"id": 15, "date": "2021-01-15", "year": 2021, "title": "Heterostructural phase diagram of Ga2O3-based solid solution with Al2O3", "venue": "Journal of the European Ceramic Society", "jif": null, "q": null, "cites": 32, "role": "co-author", "pos": [2, 4], "doi": "https://doi.org/10.1016/j.jeurceramsoc.2020.08.067", "authors": [{"n": "Hyeon Woo Kim", "lab": false, "m": "†"}, {"n": "Hyunseok Ko", "lab": true, "m": ""}, {"n": "Yong-Chae Chung", "lab": false, "m": ""}, {"n": "Sung Beom Cho", "lab": false, "m": ""}]}, {"id": 14, "date": "2021-11-15", "year": 2021, "title": "Correlation between viscoelasticity of aluminosilicate melts and elastic properties of melt-spun fibers", "venue": "Journal of Non-Crystalline Solids", "jif": null, "q": null, "cites": 1, "role": "first", "pos": [1, 4], "doi": "https://doi.org/10.1016/j.jnoncrysol.2021.121110", "authors": [{"n": "Hyunseok Ko", "lab": true, "m": "†"}, {"n": "Myounguk Kim", "lab": false, "m": ""}, {"n": "Sun-Min Park", "lab": false, "m": ""}, {"n": "Hyung Mi Lim", "lab": false, "m": ""}], "fig": 1}, {"id": 13, "date": "2021-06-15", "year": 2021, "title": "Triboelectrification: backflow and stuck charges are key", "venue": "ACS Energy Letters", "jif": null, "q": null, "cites": null, "role": "first", "pos": [1, 5], "doi": "https://doi.org/10.1021/acsenergylett.1c01019", "authors": [{"n": "Hyunseok Ko", "lab": true, "m": "†"}, {"n": "Yeong-Won Lim", "lab": false, "m": "†"}, {"n": "Seungwu Han", "lab": false, "m": ""}, {"n": "Chang Kyu Jeong", "lab": false, "m": "*"}, {"n": "Sung Beom Cho", "lab": false, "m": "*"}], "sel": 1, "fig": 1}, {"id": 12, "date": "2020-06-15", "year": 2020, "title": "Development of novel refractory ceramic continuous fibers of fly ash and comparison of mechanical properties with those of E-glass fibers using the Weibull distribution", "venue": "Ceramics International", "jif": null, "q": null, "cites": 11, "role": "first", "pos": [2, 7], "doi": "https://doi.org/10.1016/j.ceramint.2020.02.102", "authors": [{"n": "Myounguk Kim", "lab": false, "m": "†"}, {"n": "Hyunseok Ko", "lab": true, "m": "†"}, {"n": "Taesang Kwon", "lab": false, "m": ""}, {"n": "Hwang-Cheol Bae", "lab": false, "m": ""}, {"n": "Cheol-Hoon Jang", "lab": false, "m": ""}, {"n": "Bi-Ung Heo", "lab": false, "m": ""}, {"n": "Sun-Min Park", "lab": false, "m": ""}]}, {"id": 11, "date": "2020-10-01", "year": 2020, "title": "Effects of additives in colloidal silica based inorganic-hybrid binder for mineral wool insulation boards", "venue": "Journal of Asian Ceramic Societies", "jif": null, "q": null, "cites": 8, "role": "first", "pos": [1, 3], "doi": "https://doi.org/10.1080/21870764.2020.1842118", "authors": [{"n": "Hyunseok Ko", "lab": true, "m": "†"}, {"n": "Hee-Seon Lee", "lab": false, "m": ""}, {"n": "Hyung Mi Lim", "lab": false, "m": ""}], "fig": 1}, {"id": 10, "date": "2020-01-31", "year": 2020, "title": "Physiochemical effects of SiC and ZrO2 particle fillers on the properties of enamel coatings", "venue": "Coatings", "jif": null, "q": null, "cites": 4, "role": "first", "pos": [1, 5], "doi": "https://doi.org/10.3390/coatings10020121", "authors": [{"n": "Hyunseok Ko", "lab": true, "m": "†"}, {"n": "Sung-Jin Lee", "lab": false, "m": ""}, {"n": "Jae-Jong Oh", "lab": false, "m": ""}, {"n": "Seungho Lee", "lab": false, "m": "*"}, {"n": "Hyung Mi Lim", "lab": false, "m": "†*"}], "fig": 1}, {"id": 9, "date": "2019-11-01", "year": 2019, "title": "Effects of chemical composition of Ca (OH) 2 and precursors on the properties of fast-curing geopolymers", "venue": "Korean Journal of Materials Research", "jif": null, "q": null, "cites": 3, "role": "first", "pos": [1, 3], "doi": "https://doi.org/10.3740/mrsk.2019.29.11.690", "authors": [{"n": "Hyunseok Ko", "lab": true, "m": "†"}, {"n": "Jungyoung Noh", "lab": false, "m": ""}, {"n": "Hyung Mi Lim", "lab": false, "m": ""}], "fig": 1}, {"id": 8, "date": "2019-06-15", "year": 2019, "title": "Development of High Performance Exterior Ceramic Fiber Insulator with Recycled Materials", "venue": "Magazine of RCR", "jif": null, "q": null, "cites": null, "role": "co-author", "pos": [4, 5], "doi": "https://koreascience.kr/article/JAKO201929565689155.page", "authors": [{"n": "Hun Song", "lab": false, "m": "†"}, {"n": "Hyung Mi Lim", "lab": false, "m": ""}, {"n": "Sun-Min Park", "lab": false, "m": ""}, {"n": "Hyunseok Ko", "lab": true, "m": ""}, {"n": "Han-Bom Kim", "lab": false, "m": ""}], "fig": 1}, {"id": 7, "date": "2019-08-15", "year": 2019, "title": "Synergistic effects of amine-modified ammonium polyphosphate on curing behaviors and flame retardation properties of epoxy composites", "venue": "Composites Part B: Engineering", "jif": null, "q": null, "cites": 105, "role": "co-author", "pos": [2, 3], "doi": "https://doi.org/10.1016/j.compositesb.2019.04.016", "authors": [{"n": "Myounguk  Kim", "lab": false, "m": "†"}, {"n": "Hyunseok Ko", "lab": true, "m": ""}, {"n": "Sun-Min Park", "lab": false, "m": ""}]}, {"id": 6, "date": "2017-09-08", "year": 2017, "title": "Cs diffusion in SiC high-energy grain boundaries", "venue": "Journal of Applied Physics", "jif": null, "q": null, "cites": 5, "role": "first", "pos": [1, 3], "doi": "https://doi.org/10.1063/1.4989389", "authors": [{"n": "Hyunseok Ko", "lab": true, "m": "†"}, {"n": "Izabela zlufarska", "lab": false, "m": ""}, {"n": "Dane Morgan", "lab": false, "m": ""}], "fig": 1}, {"id": 4, "date": "2017-08-15", "year": 2017, "title": "Optimization of self-interstitial clusters in 3C-SiC with genetic algorithm", "venue": "Journal of Nuclear Materials", "jif": null, "q": null, "cites": 17, "role": "first", "pos": [1, 4], "doi": "https://doi.org/10.1016/j.jnucmat.2017.05.015", "authors": [{"n": "Hyunseok Ko", "lab": true, "m": "†"}, {"n": "Amy Kaczmarowski", "lab": false, "m": ""}, {"n": "Izabela Szlufarska", "lab": false, "m": ""}, {"n": "Dane Morgan", "lab": false, "m": ""}], "fig": 1}, {"id": 3, "date": "2016-08-15", "year": 2016, "title": "Ag diffusion in SiC high-energy grain boundaries: Kinetic Monte Carlo study with first-principle calculations", "venue": "Computational Materials Science", "jif": null, "q": null, "cites": 32, "role": "first", "pos": [1, 4], "doi": "https://doi.org/10.1016/j.commatsci.2016.04.027", "authors": [{"n": "Hyunseok Ko", "lab": true, "m": "†"}, {"n": "Jie Deng", "lab": false, "m": ""}, {"n": "Izabela Szlufarska", "lab": false, "m": ""}, {"n": "Dane Morgan", "lab": false, "m": ""}], "fig": 1}, {"id": 2, "date": "2016-04-15", "year": 2016, "title": "Effect of carbon ion irradiation on Ag diffusion in SiC", "venue": "Journal of Nuclear Materials", "jif": null, "q": null, "cites": 19, "role": "first", "pos": [2, 9], "doi": "https://doi.org/10.1016/j.jnucmat.2015.11.017", "authors": [{"n": "Bin Leng", "lab": false, "m": "†"}, {"n": "Hyunseok Ko", "lab": true, "m": "†"}, {"n": "Tyler J. Gerczak", "lab": false, "m": ""}, {"n": "Jie Deng", "lab": false, "m": ""}, {"n": "Andrew J. Giordani", "lab": false, "m": ""}, {"n": "Jerry L. Hunter Jr", "lab": false, "m": ""}, {"n": "Dane Morgan", "lab": false, "m": ""}, {"n": "Izabela Szlufarska", "lab": false, "m": ""}, {"n": "Kumar Sridharan", "lab": false, "m": ""}], "fig": 1}]</script>
 <script src="assets/js/site.js?v=20260905h"></script>
